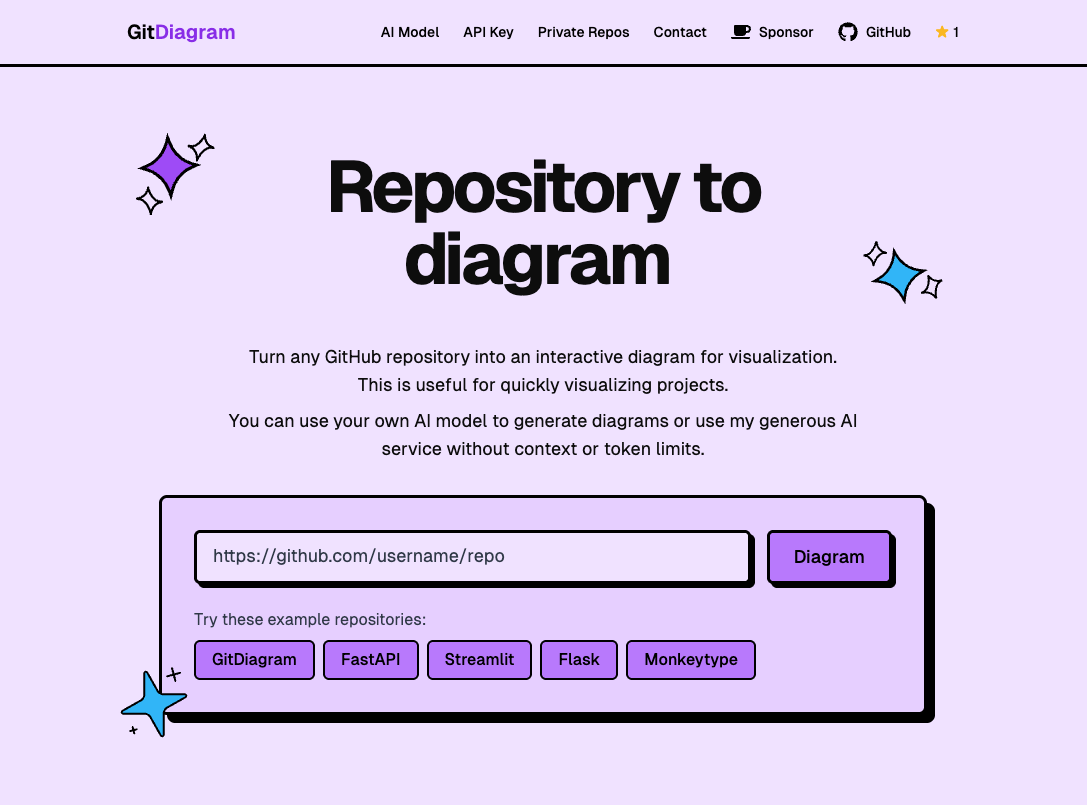
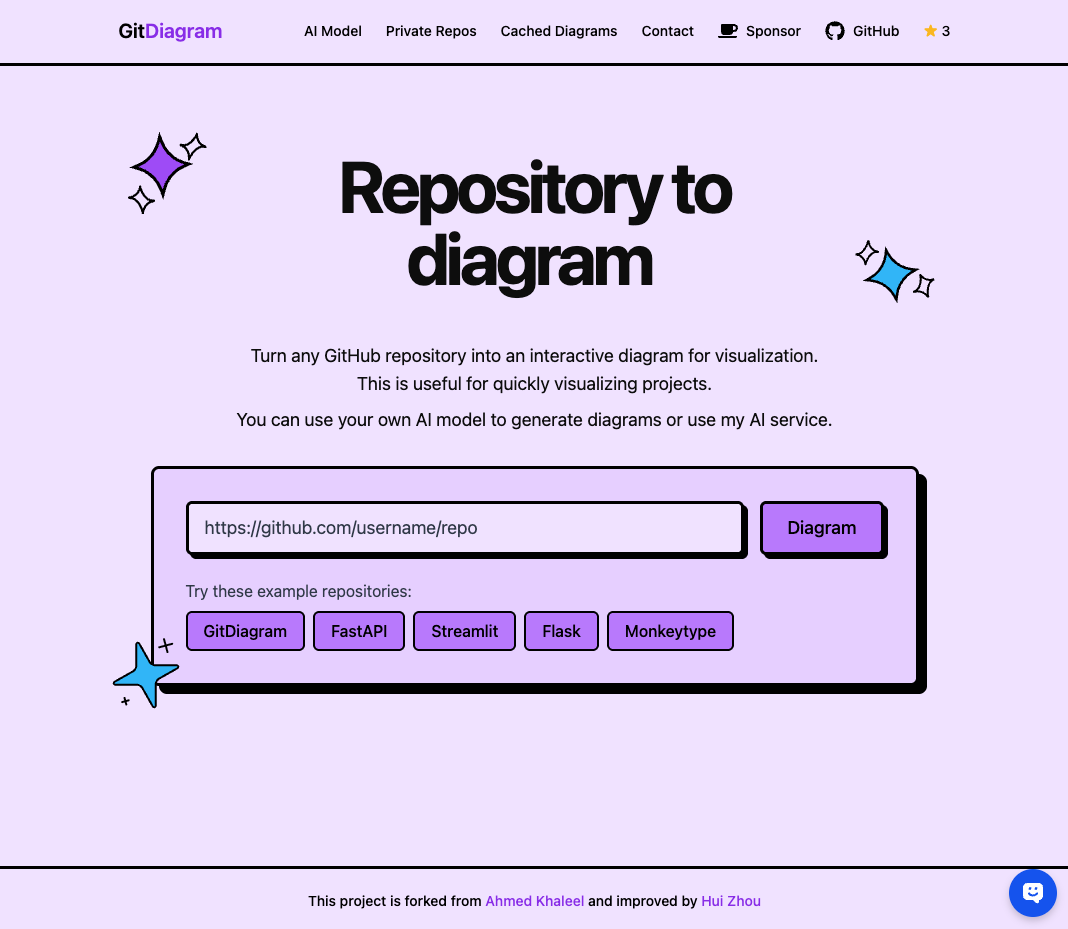
feat: add chatbot integration, caching docs, and update website content

diff --git a/src/app/layout.tsx b/src/app/layout.tsx
@@ -3,6 +3,8 @@ import "~/styles/globals.css";
 import { GeistSans } from "geist/font/sans";
 import { type Metadata } from "next";
 import { Header } from "~/components/header";
+import Head from "next/head";
+import Script from "next/script";
 import { Footer } from "~/components/footer";
 
 export const metadata: Metadata = {
@@ -77,11 +79,17 @@ export default function RootLayout({
   children,
 }: Readonly<{ children: React.ReactNode }>) {
   return (
-    <html lang="en" className={`${GeistSans.variable}`}>
+    <html lang="en" className={`${GeistSans.variable}`}> 
+      <Head>
+        <style>{`#dify-chatbot-bubble-button {background-color: #1C64F2 !important;} #dify-chatbot-bubble-window {width: 24rem !important; height: 40rem !important;}`}</style>
+      </Head>
       <body className="flex min-h-screen flex-col">
         <Header />
         <main className="flex-grow">{children}</main>
         <Footer />
+        <Script id="stats-script" defer src="https://stats.huizhou.dev/script.js" data-website-id="d4a101c7-6377-4259-9fca-d00a1bc971d2"></Script>
+        <Script id="dify-chatbot" dangerouslySetInnerHTML={{__html:`window.difyChatbotConfig={token:'sh3bQeW3gDfbHfal',baseUrl:'https://dify.huizhous.ai'}`}} />
+        <Script id="dify-embed" src="https://dify.huizhous.ai/embed.min.js" defer></Script>
       </body>
     </html>
   );

diff --git a/README.md b/README.md
@@ -14,6 +14,8 @@ Turn any GitHub repository into an interactive diagram for visualization in seco
 - ⚡ **Fast Generation**: Powered by various AI models for quick and accurate diagrams
 - 🔄 **Customization**: Modify and regenerate diagrams with custom instructions
 - 🐛 **Debug Support**: View Mermaid diagram source code and syntax errors for easy debugging
+- 📊 **Caching**: Generated diagrams are cached in the database to save API tokens and provide up-to-date results
+- 🤖 **AI Chatbot**: Interact with the AI chatbot to get answers to your questions.
 
 ## 🤖 AI Model Configuration
 
@@ -45,13 +47,13 @@ Turn any GitHub repository into an interactive diagram for visualization in seco
 
 ## 🤔 About
 
-I created this because I wanted to contribute to open-source projects but quickly realized their codebases are too massive for me to dig through manually, so this helps me get started - but it's definitely got many more use cases!
+The intention to create this website is to contribute to open-source projects and help people get started with open-source projects. It is also a tool for people to learn and understand AI models and their capabilities.
 
 Given any public (or private!) GitHub repository it generates diagrams in Mermaid.js with your own AI model
 
-I extract information from the file tree and README for details and interactivity (you can click components to be taken to relevant files and directories)
+The GitHub repository information is extracted from the file tree and README. The interactivity is enabled by clicking on components to navigate directly to source files and relevant directories.
 
-Most of what you might call the "processing" of this app is done with prompt engineering - see `/backend/app/prompts.py`. This basically extracts and pipelines data and analysis for a larger action workflow, ending in the diagram code.
+Prompt engineering is the core of this website. Most of the "processing" is done with that - see `/backend/app/prompts.py`. It extracts, pipelines, and analyzes data for a large action workflow. Finally, it generates the diagram code.
 
 ## 🔒 How to diagram private repositories
 
@@ -134,16 +136,3 @@ Shoutout to [Romain Courtois](https://github.com/cyclotruc)'s [Gitingest](https:
 ## 📈 Rate Limits
 
 Hui Zhou is currently hosting it for free with no rate limits though this is somewhat likely to change in the future.
-
-<!-- If you would like to bypass these, self-hosting instructions are provided. I also plan on adding an input for your own Anthropic API key.
-
-Diagram generation:
-
-- 1 request per minute
-- 5 requests per day -->
-
-## 🤔 Future Steps
-
-- Implement font-awesome icons in diagram
-- Implement an embedded feature like star-history.com but for diagrams. The diagram could also be updated progressively as commits are made.
-- Feel free to suggest more features or improvements

diff --git a/docs/how_to_use.md b/docs/how_to_use.md
@@ -1,0 +1,27 @@
+# How to Use the Website
+
+1. Go to [https://gitdiagram.uti-kit.com/](https://gitdiagram.uti-kit.com/)
+2. Enter the URL of the GitHub repository you want to visualize
+3. Click the "Generate Diagram" button
+4. Wait for the diagram to be generated
+5. Click on the diagram to navigate to the relevant source files and directories
+
+Hui Zhou is currently hosting it for free with no rate limits though this is somewhat likely to change in the future.
+
+It is also possible to self-host the app locally or on a cloud provider.
+
+You can try different AI models and configure your own API keys for each provider through the UI.
+
+Please note that if you want to diagram private repositories, you can click on "Private Repos" in the header and follow the instructions by providing a GitHub personal access token with the `repo` scope. It is highly recommended to use a private LLM API key for this purpose.
+
+## Cached Diagrams
+
+The website provides the cached diagrams. If the repository has been diagrammed before, you can click on "View Diagram" to view the diagram. If the repository has not been diagrammed before, you can click on "Generate Diagram" to generate the diagram. If the repository new commits are pushed to main/master branch 24 hours ago, the diagram will be regenerated.
+
+## Issues
+
+Right now it may fails to generate diagrams due to the AI models' context window size, Mermaid diagram source code and syntax errors.
+
+## Contact
+
+You can contact the website owner, Hui Zhou, by submitting an issue on GitHub or by submitting the form on the website.
